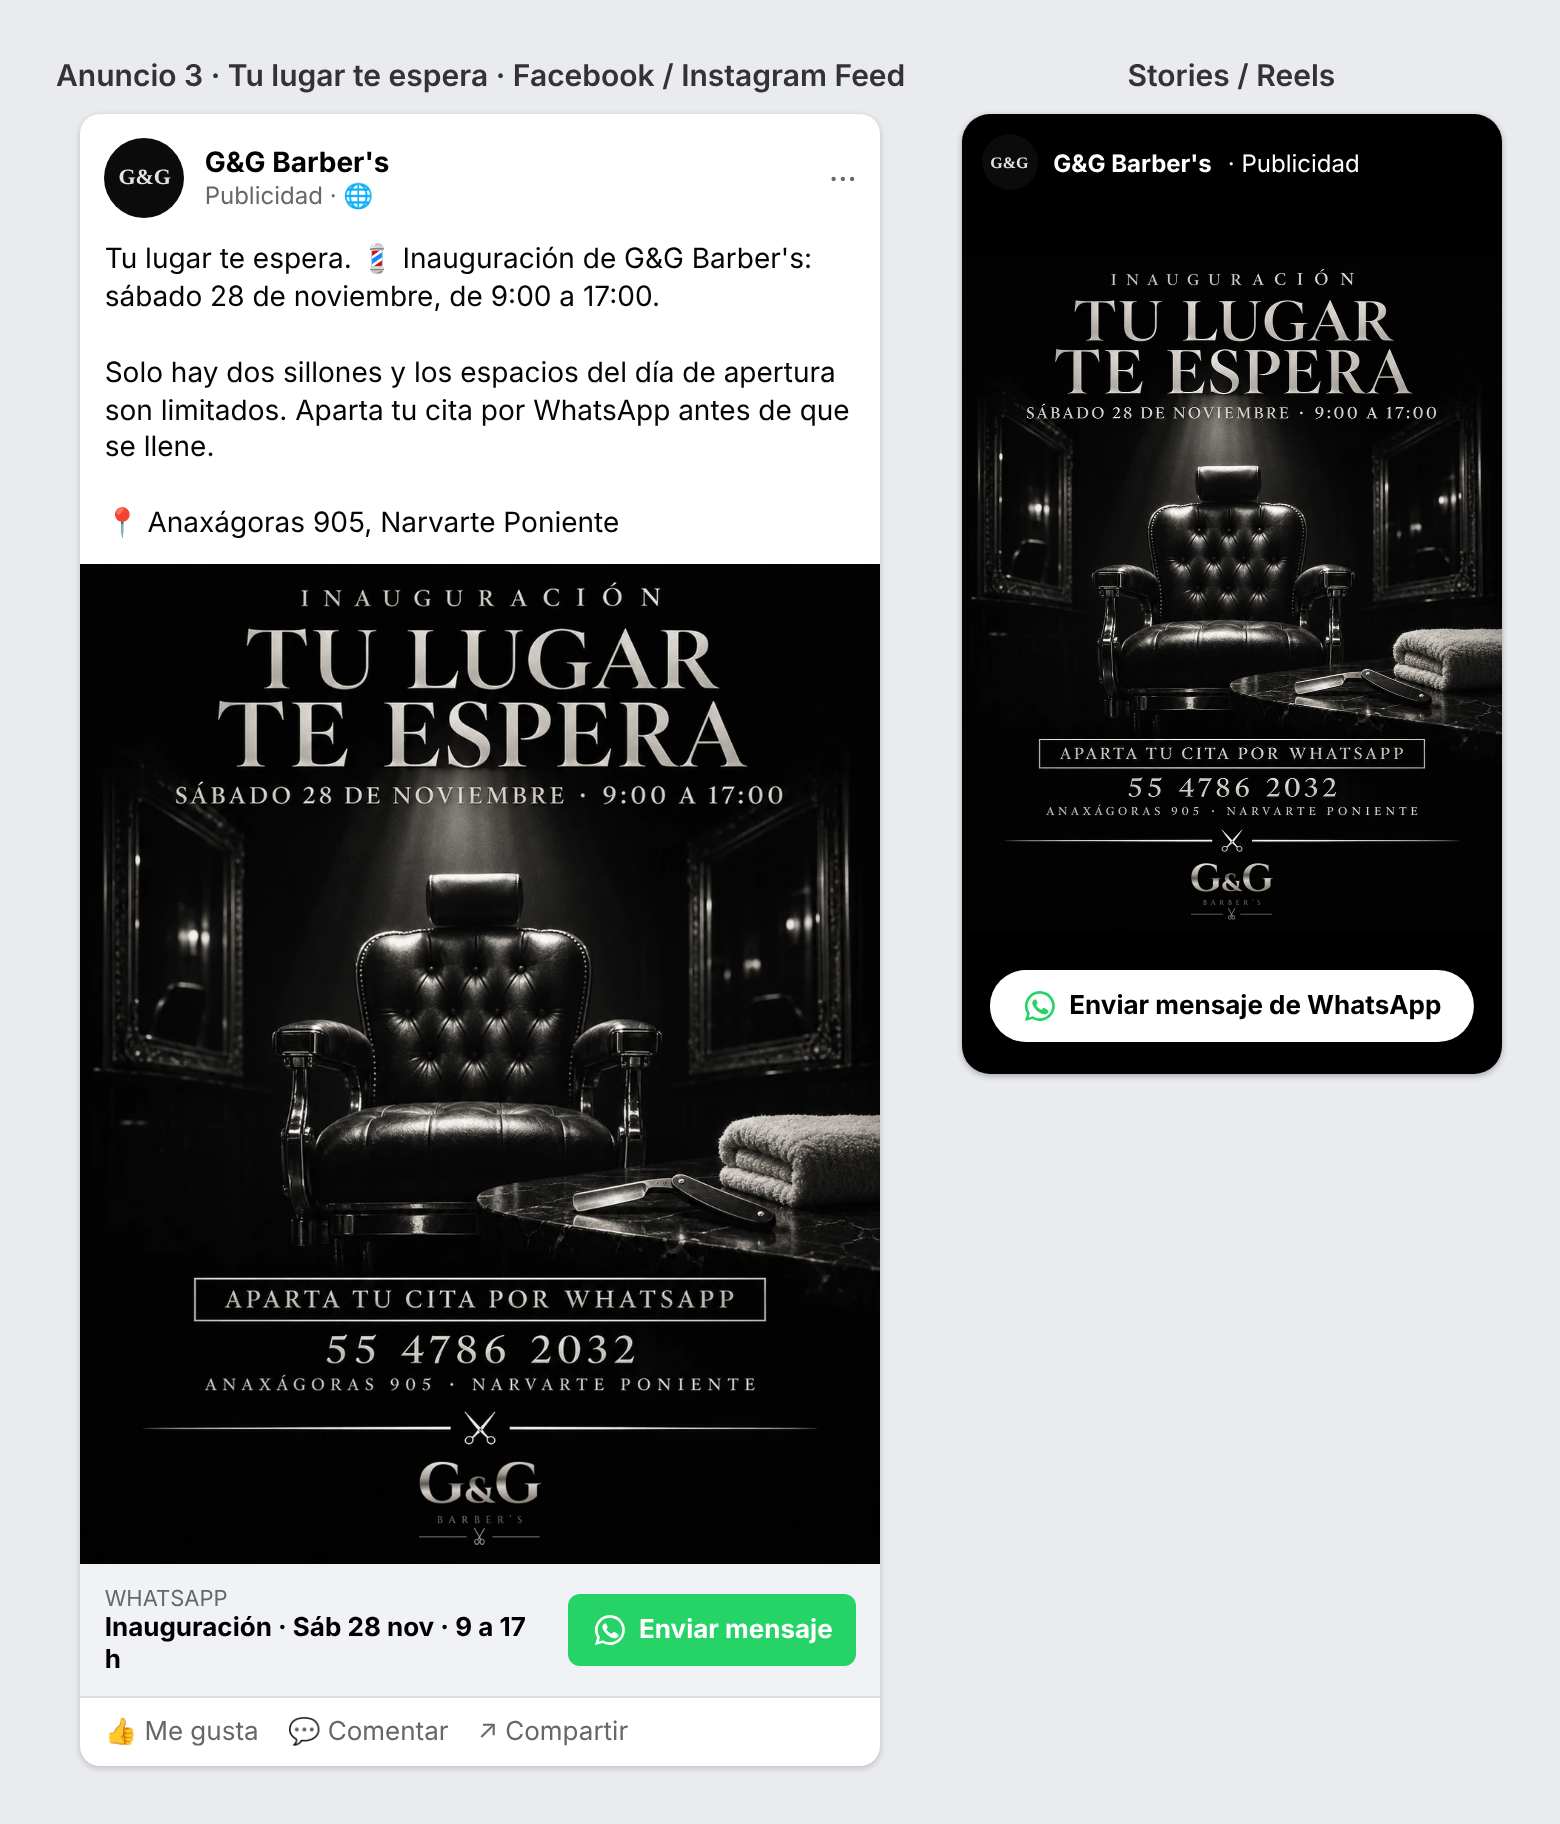
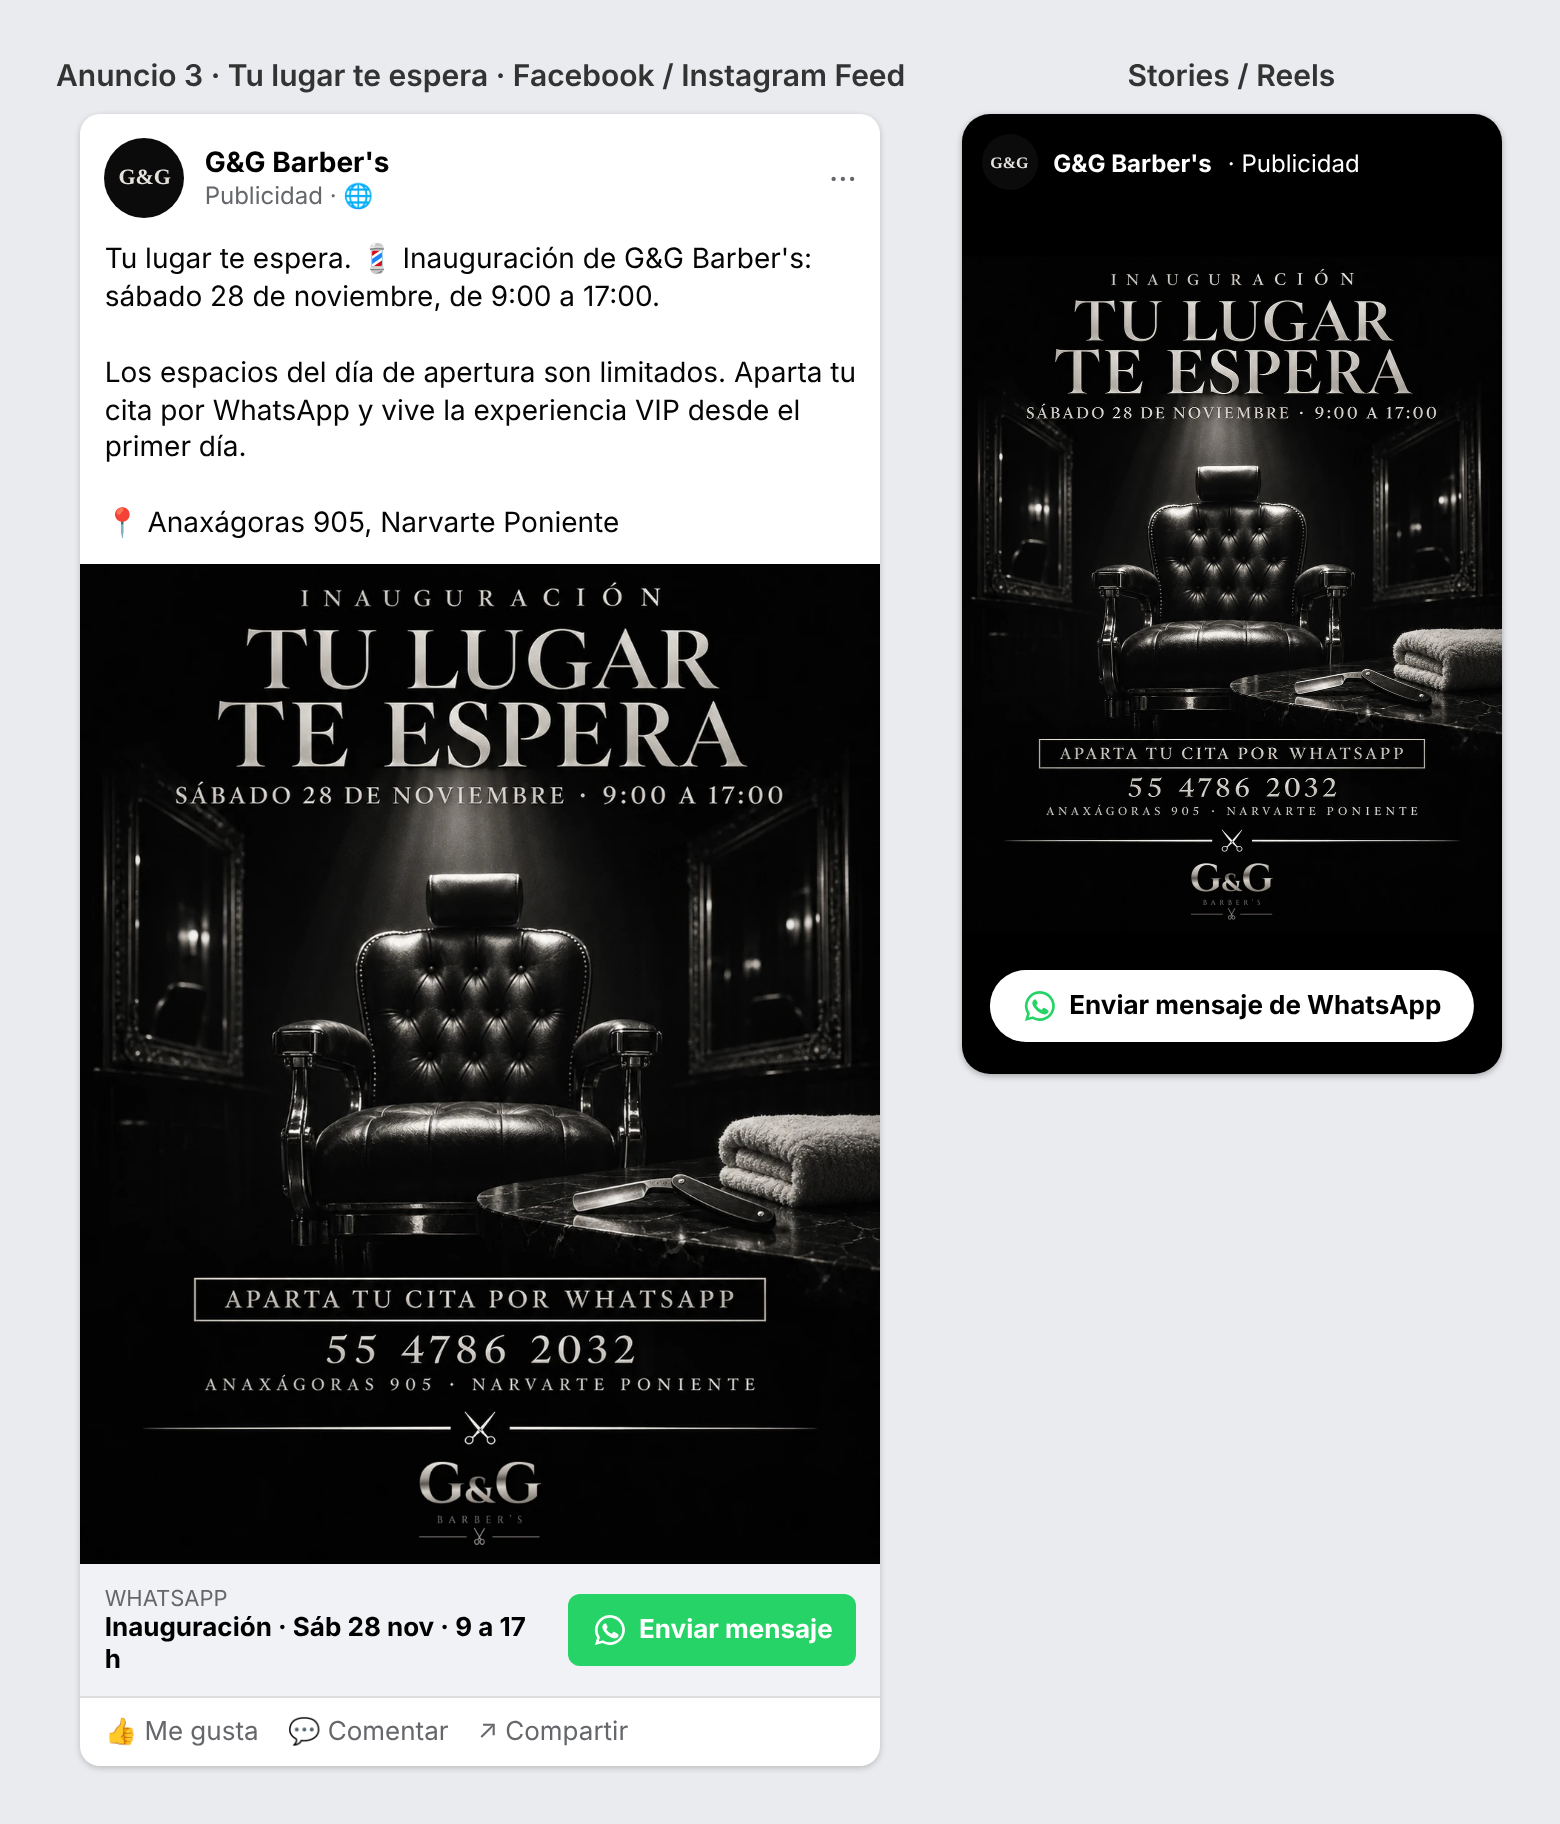
G&G: texto del anuncio 'Tu lugar te espera' sin mencionar dos sillones
Claude-Session: https://claude.ai/code/session_01KnV4i2rAq6PMkX44p397vH

Changed region(s): [[0.0615, 0.1875, 0.5538, 0.25]]

diff --git a/wiki/proyectos/GG-Campanas-Inauguracion.md b/wiki/proyectos/GG-Campanas-Inauguracion.md
@@ -38,7 +38,7 @@ Inicio programado: 2026-11-06 07:00 (CDMX). Sin fecha de fin.
 Anuncios (todos con botón **Enviar mensaje de WhatsApp**):
 - "No es una barbería más" — creativo `1585602343374761` (en ambas campañas)
 - "No es un corte, es una experiencia" — creativo `2376991489762806`
-- "Tu lugar te espera" — creativo `28947812128213075`
+- "Tu lugar te espera" — creativo `1673905231199435` (v2, sin "solo hay dos sillones"; reemplazó a `28947812128213075` el 2026-11-05)
 
 > [!warning] Pendiente de verificar
 > Los 7 objetos del borrador están VALIDATED sin errores (revisado 2026-11-05, ya con el
